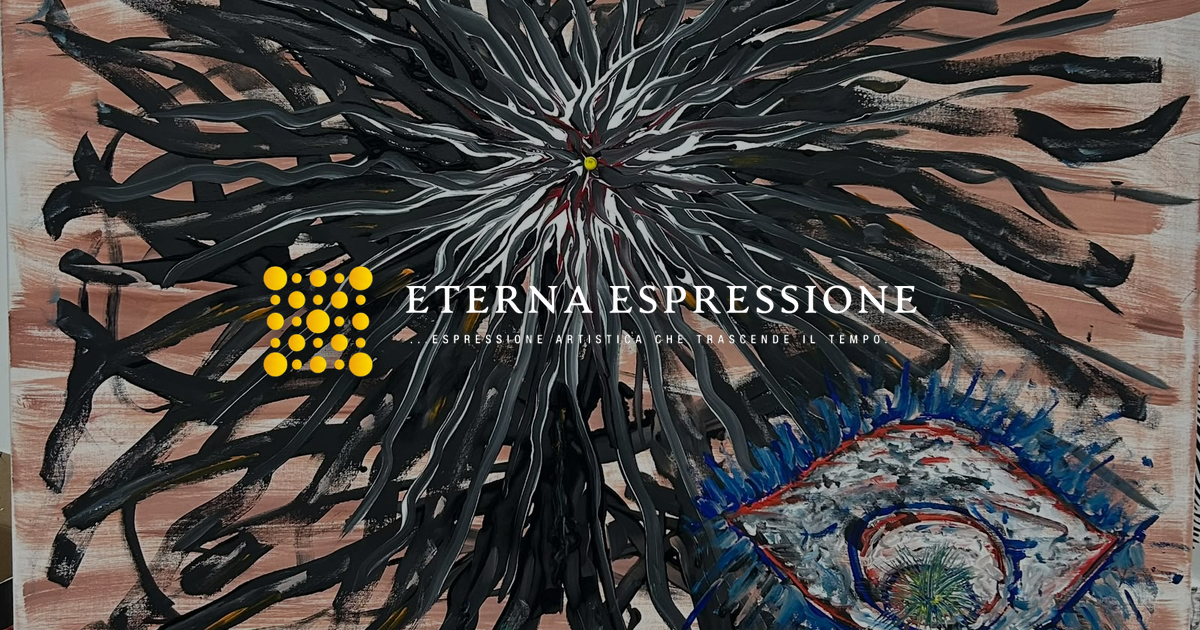
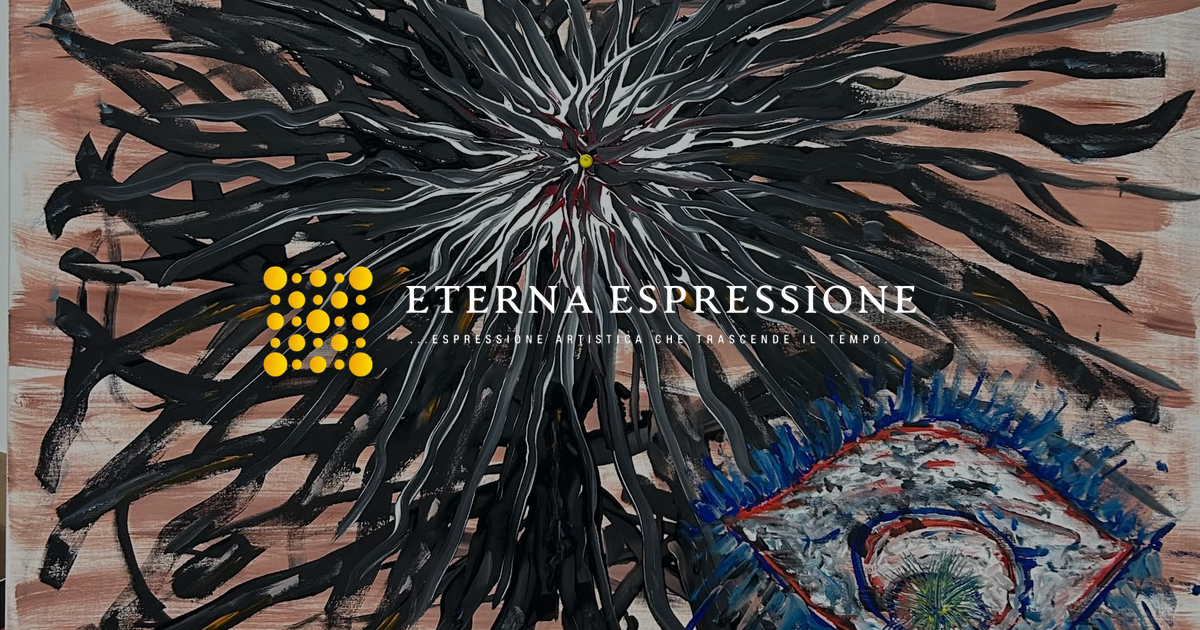
Update hero artwork and artist story

diff --git a/style.css b/style.css
@@ -231,7 +231,7 @@
 	.widget.widget_categories ul li, .widget.widget_archive ul li { padding-left:30px; margin-bottom: 5px; padding-bottom: 5px; line-height:30px; border-bottom:3px double; }
 	.widget.widget_archive ul li { padding-left:25px; }
 	.widget.widget_categories ul li:last-child { border-bottom: 3px double; }
-	.widget.widget_categories ul li:before { content:""; left:5px; }
+	.widget.widget_categories ul li:before { content:"\f0a1"; left:5px; }
 	.widget.widget_categories ul li span, .widget.widget_archive ul li span { position: absolute; right: 0; bottom: 0; width: 25px; height: 25px; border: 3px double; float: left; line-height: 21px; text-align: center; font-size: 14px; }
 	.widget.widget_categories ul li:hover, .widget.widget_archive ul li:hover { border-bottom: 3px double;}
 	.widget.widget_categories ul li a { display:block; }
@@ -280,7 +280,7 @@
 	.widget.widget_recent_entries ul li span.post-date:before { content: "\f073"; font-family:FontAwesome; margin-right:7px; }
 
 	.widget.widget_recent_comments ul li:before { content:"\f0e6"; }
-	.widget.widget_archive ul li:before { content:""; }
+	.widget.widget_archive ul li:before { content:"\f0c1"; }
 	.widget.widget_ratings-widget ul li:before { content:"\f006"; }
 	.widget.widget_sensei_lesson_component ul li:before { content:"\f02d"; }
 	.widget.widget_meta ul li:before { content:"\f044"; }
@@ -624,7 +624,7 @@
 
 	#main { float: left; margin: 0; position: relative; width: 100%; }
 
-	.slider-container { aspect-ratio: 1600 / 1128; backface-visibility: hidden; background: #050505; display: block; float: left; height: auto; margin: 0 0 20px; max-height: none; min-height: 0; overflow: hidden; position: relative; vertical-align: middle; width: 100%;}
+	.slider-container { aspect-ratio: 1600 / 1108; backface-visibility: hidden; background: #050505; display: block; float: left; height: auto; margin: 0 0 20px; max-height: none; min-height: 0; overflow: hidden; position: relative; vertical-align: middle; width: 100%;}
 	.slider { aspect-ratio: inherit; background-color: #050505; background-image:url(images/paintings/29.jpeg); background-repeat: no-repeat; background-position: center center; background-size: 100% 100%; backface-visibility: hidden; display: block; float: left; height: auto; overflow: hidden; position: relative; width: 100%; }
 	.slider-container .container { position: static; }
 	.slider-container .parallax { position: relative; }
@@ -944,6 +944,11 @@
 	.artist-photo { border: 8px solid #1c1c1c; box-sizing: border-box; display: block; height: auto; max-width: 100%; }
 	.artist-quote { font-size: 24px; line-height: 1.4; margin-top: 10px; }
 	.artist-quote span { display: block; }
+	.artist-story { border-top: 1px solid #2b2b2b; clear: both; float: left; padding: 45px 0 10px; width: 100%; }
+	.artist-story h3 { font-size: 38px; margin-bottom: 8px; text-transform: uppercase; }
+	.artist-story h5 { color: #ffffff; font-size: 20px; margin-bottom: 10px; }
+	.artist-story p { color: #cfcfcf; font-size: 17px; line-height: 1.8; margin-bottom: 16px; max-width: 980px; }
+	.artist-story .artist-story-subtitle { color: #ffffff; font-family: 'Josefin Sans', sans-serif; letter-spacing: 1px; text-transform: uppercase; }
 
 	.account-dashboard { float: left; width: 100%; }
 	.account-panel { border: 1px solid #2b2b2b; box-sizing: border-box; float: left; margin-bottom: 30px; padding: 30px; width: 100%; }
@@ -1146,8 +1151,8 @@
 
 	.shop-dropdown { position: relative;	width: 100%; margin: 0 auto;	display: block;}
 	.shop-dropdown > span { width: 100%; height: 60px; line-height: 60px; font-weight: 700; font-size: 16px; display: block;	padding: 0 50px 0 30px;	position: relative;	cursor: pointer;}
-	.shop-dropdown > span::after { border-left: 1px solid; bottom: 0; content: ""; font-family: fontawesome; font-size: 12px; line-height: 40px; padding: 10px; position: absolute; right: 0; text-align: center; top: 0; width: 50px;}
-	.shop-dropdown.active > span:after {	content: '';}
+	.shop-dropdown > span::after { border-left: 1px solid; bottom: 0; content: "\f078"; font-family: fontawesome; font-size: 12px; line-height: 40px; padding: 10px; position: absolute; right: 0; text-align: center; top: 0; width: 50px;}
+	.shop-dropdown.active > span:after {	content: '\f077';}
 	.shop-dropdown ul li { display: block;}
 	.shop-dropdown ul li span { width: 100%; line-height: 60px; padding: 0 30px 0 75px; display: block; cursor: pointer; font-weight: 700;}
 	.shop-dropdown > span, .shop-dropdown ul li span { -webkit-backface-visibility: hidden; -webkit-touch-callout: none; -webkit-user-select: none; -khtml-user-select: none;	-moz-user-select: none;	-ms-user-select: none; user-select: none;}
@@ -1217,7 +1222,7 @@
 	.project-details ul.client-details li p { margin-bottom: 0;}
 	.project-details ul.client-details li span { float: left; font-weight: 500; font-size: 14px; width: 35%;}
 	.project-details ul.client-details li p i { font-size: 14px; margin-right: 10px;}
-	.client-details li p a::before { content: ""; display: inline-block; font-family: fontawesome; font-size: 14px; font-weight: 700; margin: 0 15px 0 0;}
+	.client-details li p a::before { content: "\f043"; display: inline-block; font-family: fontawesome; font-size: 14px; font-weight: 700; margin: 0 15px 0 0;}
 	.client-details .tagcloud { display: inline-block; width:65%;}
 	.client-details .tagcloud a { float: left; font-size: 14px; font-weight: 400; margin: 0 1px 15px 0; padding: 7px 10px; position: relative;}
 	.tagcloud a:nth-last-of-type(3n-1), .tagcloud a:nth-last-of-type(3n+1) { margin-bottom: 0;}

diff --git a/about.html b/about.html
@@ -179,6 +179,24 @@
                             </div><!-- *dt-sc-icon-content-wrapper Ends here** -->
                         </div>
                     </div>
+                    <div class="dt-sc-hr-invisible"></div>
+                    <div class="artist-story animate" data-animation="fadeInUp" data-delay="100">
+                        <h3>Eterna Espressione</h3>
+                        <h5>Art Gallery by Marcello Castagna</h5>
+                        <p class="artist-story-subtitle">Artistic expression that transcends time.</p>
+                        <p>My name is Marcello Castagna, an Italian chef and owner of Osteria Fainá in San José, Costa Rica.</p>
+                        <p>Italian cuisine, taste, and tradition have always been a fundamental part of the way I express myself. In the kitchen, I transform simple ingredients into emotions, trying to keep alive that deep connection with Italian tradition that passes through flavors, aromas, and conviviality.</p>
+                        <p>But creativity does not stop in the kitchen.</p>
+                        <p>When the kitchen turns off and silence falls, another form of expression is born.</p>
+                        <p>Colors take the place of flavors, the brush replaces the utensils, and the canvas becomes the space where thoughts, emotions, and freedom take shape.</p>
+                        <p>This is how Eterna Espressione was born.</p>
+                        <p>A gallery where matter, color, and emotion meet. Each work is a fragment of my inner world, a journey without rules through what I feel, think, and imagine.</p>
+                        <p>As in cooking, in art I also believe that true expression is born from the meeting of tradition, matter, and creativity.</p>
+                        <p>I do not paint to explain what I see. I paint to give shape to what I feel.</p>
+                        <p>And perhaps, standing before a canvas, each person can find something of themselves.</p>
+                        <p>Welcome to Eterna Espressione.</p>
+                        <p class="artist-quote"><span>By day I nourish the body.</span><span>By night I nourish the soul.</span></p>
+                    </div>
                 </div>
             </section><!-- **Primary Ends Here** -->
 

diff --git a/css/responsive.css b/css/responsive.css
@@ -16,7 +16,7 @@
 	
 	.logo { margin: 0; width: auto; max-width: 270px; }
 	.logo a img { max-height: 58px; width: auto; }
-	.slider-container { aspect-ratio: 1600 / 1128; height: auto; min-height: 0; max-height: none; }
+	.slider-container { aspect-ratio: 1600 / 1108; height: auto; min-height: 0; max-height: none; }
 	.hero-gallery-logo { width: clamp(300px, 56vw, 680px); }
 	.header-animate .logo { padding: 12px 0;}
 	.header-animate #main-menu ul li { padding: 14px 0; }		
@@ -205,7 +205,7 @@
 	
 	.logo { margin: 0; width: auto; max-width: 240px; }
 	.logo a img { max-height: 52px; width: auto; }
-	.slider-container { aspect-ratio: 1600 / 1128; height: auto; min-height: 0; max-height: none; }
+	.slider-container { aspect-ratio: 1600 / 1108; height: auto; min-height: 0; max-height: none; }
 	.hero-gallery-logo { width: min(72vw, 560px); }
 	.header-animate .logo { padding: 12px 0;}
 	.header-animate #main-menu ul li { padding: 12px 0; }		
@@ -461,7 +461,7 @@
 		
 	.logo { width: 100%; max-width: 100%; text-align:center; padding: 10px 0;}
 	.logo a img { max-height: 62px; width: auto; }
-	.slider-container { aspect-ratio: 1600 / 1128; height: auto; min-height: 0; max-height: none; }
+	.slider-container { aspect-ratio: 1600 / 1108; height: auto; min-height: 0; max-height: none; }
 	.hero-gallery-logo { max-width: calc(100% - 24px); width: 82vw; }
 	#main-menu { display: inline-block; float: none; padding: 10px 0; width: 100%; position:relative; }
 	
